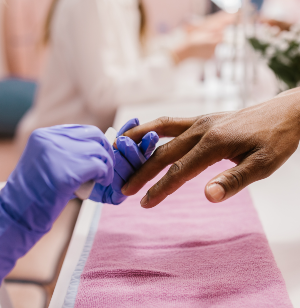
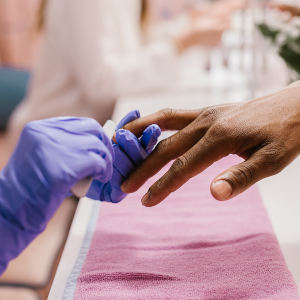
cambio de tamaño de fotos

diff --git a/css/responsive.css b/css/responsive.css
@@ -100,7 +100,7 @@ a {
 .nuestroserviciostitulo {
   color: rgb(80, 80, 80);
   font-family: "Montserrat", sans-serif;
-  font-size: 15px;
+  font-size: 20px;
   text-align: center;
   width: auto;
 }
@@ -108,7 +108,7 @@ a {
 .mision {
   background-color: rgb(170, 140, 123);
   color: rgb(255, 255, 255);
-  font-size: 20px;
+  font-size: 15px;
   text-align: center;
   padding: 10px;
 }
@@ -117,7 +117,7 @@ a {
 .conocealequipo {
   color: rgb(80, 80, 80);
   font-family: "Montserrat", sans-serif;
-  font-size: 15px;
+  font-size: 20px;
   text-align: center;
   width: auto;
 }
